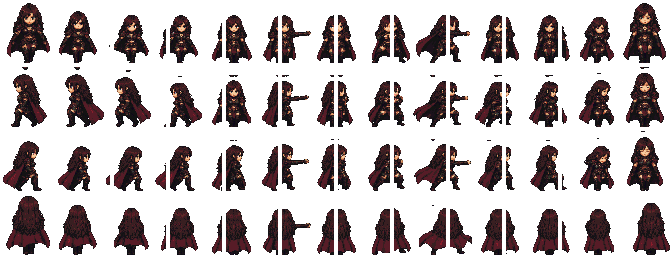
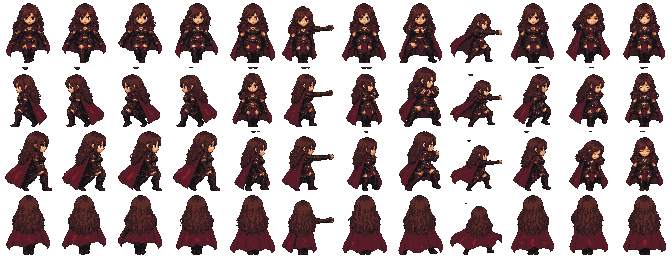
Fix warrior sprite cropping and preserve green cape colors

diff --git a/tests/skins.test.js b/tests/skins.test.js
@@ -51,6 +51,18 @@ test('skins: cada cor de capa tem a sua folha', () => {
   assert.equal(new Set(sheets).size, 4);
 });
 
+test('guerreira verde: capa permanece verde em todas as poses e direcoes', () => {
+  const png = sheetOf('warrior-green');
+  for (let d = 0; d < 4; d += 1) for (let f = 0; f < HERO_COLS; f += 1) {
+    const data = frameOf(png, d, f);
+    let green = 0;
+    for (let i = 0; i < data.length; i += 4) {
+      if (data[i + 3] && data[i + 1] > 80 && data[i + 1] > data[i] * 1.5 && data[i + 1] > data[i + 2] * 1.2) green += 1;
+    }
+    assert.ok(green >= 30, `d${d} f${f}: capa sem verde (${green})`);
+  }
+});
+
 test('skins: textura, quadro e valor seguro', () => {
   assert.equal(HERO_SKINS.length, 7);
   assert.equal(heroTexture('swordsman'), 'player-swordsman');
